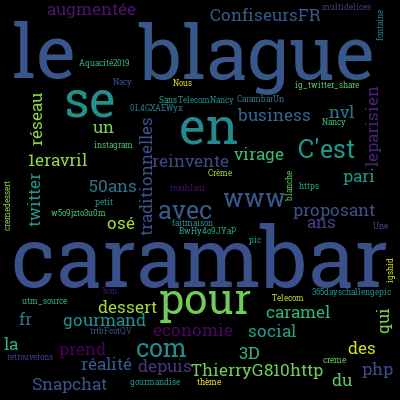
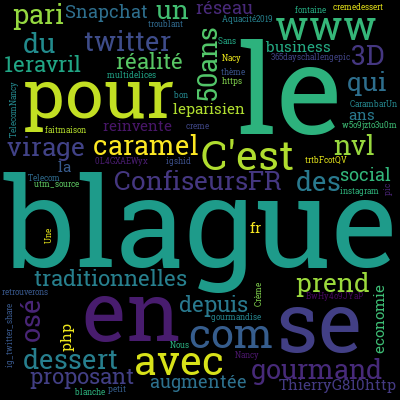
V1

diff --git a/ui_mainwindow.py b/ui_mainwindow.py
@@ -2,11 +2,12 @@
 
 # Form implementation generated from reading ui file 'MainWindow.ui'
 #
-# Created by: PyQt5 UI code generator 5.9.2
+# Created by: PyQt5 UI code generator 5.12.1
 #
 # WARNING! All changes made in this file will be lost!
 
 from PyQt5 import QtCore, QtGui, QtWidgets
+
 
 class Ui_MainWindow(object):
     def setupUi(self, MainWindow):
@@ -28,13 +29,39 @@ class Ui_MainWindow(object):
         self.textEdit.setMaximumSize(QtCore.QSize(16777215, 16777215))
         self.textEdit.setObjectName("textEdit")
         self.verticalLayout_4.addWidget(self.textEdit)
+        self.horizontalLayout_3 = QtWidgets.QHBoxLayout()
+        self.horizontalLayout_3.setObjectName("horizontalLayout_3")
+        self.label_2 = QtWidgets.QLabel(self.centralwidget)
+        self.label_2.setAlignment(QtCore.Qt.AlignRight|QtCore.Qt.AlignTrailing|QtCore.Qt.AlignVCenter)
+        self.label_2.setObjectName("label_2")
+        self.horizontalLayout_3.addWidget(self.label_2)
+        self.wcheight = QtWidgets.QSpinBox(self.centralwidget)
+        self.wcheight.setMinimum(1)
+        self.wcheight.setMaximum(2048)
+        self.wcheight.setProperty("value", 400)
+        self.wcheight.setObjectName("wcheight")
+        self.horizontalLayout_3.addWidget(self.wcheight)
+        self.label_3 = QtWidgets.QLabel(self.centralwidget)
+        self.label_3.setAlignment(QtCore.Qt.AlignRight|QtCore.Qt.AlignTrailing|QtCore.Qt.AlignVCenter)
+        self.label_3.setObjectName("label_3")
+        self.horizontalLayout_3.addWidget(self.label_3)
+        self.wcwidth = QtWidgets.QSpinBox(self.centralwidget)
+        self.wcwidth.setMinimum(1)
+        self.wcwidth.setMaximum(2048)
+        self.wcwidth.setProperty("value", 400)
+        self.wcwidth.setObjectName("wcwidth")
+        self.horizontalLayout_3.addWidget(self.wcwidth)
+        self.wcupdate = QtWidgets.QPushButton(self.centralwidget)
+        self.wcupdate.setObjectName("wcupdate")
+        self.horizontalLayout_3.addWidget(self.wcupdate)
+        self.verticalLayout_4.addLayout(self.horizontalLayout_3)
+        spacerItem = QtWidgets.QSpacerItem(20, 40, QtWidgets.QSizePolicy.Minimum, QtWidgets.QSizePolicy.Expanding)
+        self.verticalLayout_4.addItem(spacerItem)
         self.line_2 = QtWidgets.QFrame(self.centralwidget)
         self.line_2.setFrameShape(QtWidgets.QFrame.HLine)
         self.line_2.setFrameShadow(QtWidgets.QFrame.Sunken)
         self.line_2.setObjectName("line_2")
         self.verticalLayout_4.addWidget(self.line_2)
-        spacerItem = QtWidgets.QSpacerItem(20, 40, QtWidgets.QSizePolicy.Minimum, QtWidgets.QSizePolicy.Expanding)
-        self.verticalLayout_4.addItem(spacerItem)
         self.horizontalLayout.addLayout(self.verticalLayout_4)
         self.line = QtWidgets.QFrame(self.centralwidget)
         self.line.setFrameShape(QtWidgets.QFrame.VLine)
@@ -44,10 +71,12 @@ class Ui_MainWindow(object):
         self.verticalLayout_5 = QtWidgets.QVBoxLayout()
         self.verticalLayout_5.setObjectName("verticalLayout_5")
         self.wcloud = QtWidgets.QLabel(self.centralwidget)
+        self.wcloud.setMinimumSize(QtCore.QSize(400, 0))
         self.wcloud.setScaledContents(True)
         self.wcloud.setObjectName("wcloud")
         self.verticalLayout_5.addWidget(self.wcloud)
         self.freq = QtWidgets.QLabel(self.centralwidget)
+        self.freq.setMinimumSize(QtCore.QSize(400, 0))
         self.freq.setScaledContents(True)
         self.freq.setObjectName("freq")
         self.verticalLayout_5.addWidget(self.freq)
@@ -99,6 +128,9 @@ class Ui_MainWindow(object):
         _translate = QtCore.QCoreApplication.translate
         MainWindow.setWindowTitle(_translate("MainWindow", "MainWindow"))
         self.label.setText(_translate("MainWindow", "Wordcloud Stopword"))
+        self.label_2.setText(_translate("MainWindow", "Height :"))
+        self.label_3.setText(_translate("MainWindow", "Width :"))
+        self.wcupdate.setText(_translate("MainWindow", "Réactualiser le nuage de mots"))
         self.wcloud.setText(_translate("MainWindow", "Wordcloud"))
         self.freq.setText(_translate("MainWindow", "Frequence"))
         self.menuFichier.setTitle(_translate("MainWindow", "Fichier"))
@@ -111,4 +143,5 @@ class Ui_MainWindow(object):
         self.actionQuitter.setText(_translate("MainWindow", "Quitter"))
         self.actionAide.setText(_translate("MainWindow", "Aide"))
         self.actionCr_ateur.setText(_translate("MainWindow", "Créateur"))
+
 

diff --git a/main.py b/main.py
@@ -23,6 +23,9 @@ class MainWindow(QMainWindow):
             self.saveFrequences)
         self.ui.actionQuitter.triggered.connect(self.close)
         self.ui.actionCr_ateur.triggered.connect(self.crea)
+        self.ui.actionAide.triggered.connect(self.help)
+
+        self.ui.wcupdate.clicked.connect(self.setWordCloud)
 
         self.resize(820, 540)
         self.setWindowTitle("TwittAnalysis")
@@ -38,9 +41,9 @@ class MainWindow(QMainWindow):
             self, 'Open file', '.', "HTML file (*.html)")
         fdialog.setVisible(False)
         if fname[0]:
-            print("load")
+            # print("load")
             HTMLtoCSV(fname[0])
-            print("load end")
+            # print("load end")
             self.updateGraph()
 
     def loadCSV(self, e):
@@ -52,7 +55,7 @@ class MainWindow(QMainWindow):
             fin = open(fname[0], 'r')
             fout = open("res.csv", 'w')
             for line in fin.readlines():
-                print(line)
+                # print(line)
                 fout.write(line)
             fout.close()
             self.updateGraph()
@@ -63,7 +66,7 @@ class MainWindow(QMainWindow):
         fin = open("res.csv", 'r')
         fout = open(name[0], 'w')
         for line in fin.readlines():
-            print(line)
+            # print(line)
             fout.write(line)
         fout.close()
         fin.close()
@@ -71,25 +74,42 @@ class MainWindow(QMainWindow):
     def saveWorkCloud(self, e):
         name = QFileDialog.getSaveFileName(
             self, 'Save File')
-        stopword = set()
-        for word in self.ui.textEdit.toPlainText().split(";"):
-            stopword.add(word)
-        WCLOUD(stopword, name[0])
+        nam = name[0]
+        if nam:
+            if not name[0].endswith(".png"):
+                nam += ".png"
+            stopword = set()
+            for word in self.ui.textEdit.toPlainText().split(";"):
+                stopword.add(word)
+            width = self.ui.wcwidth.value()
+            height = self.ui.wcheight.value()
+            WCLOUD(stopword, nam, w=width, h=height)
 
     def saveFrequences(self, e):
         name = QFileDialog.getSaveFileName(
             self, 'Save File')
-        FREQ(name[0])
+        nam = name[0]
+        if nam:
+            if not name[0].endswith(".png"):
+                nam += ".png"
+            FREQ(nam)
 
     def crea(self):
         QDesktopServices.openUrl(QUrl("https://github.com/jeanlapostolle/"))
+
+    def help(self):
+        QDesktopServices.openUrl(
+            QUrl("https://github.com/jeanlapostolle/TwittAnalysis"))
 
     def setWordCloud(self):
         stopword = set()
         for word in self.ui.textEdit.toPlainText().split(";"):
             stopword.add(word)
-        WCLOUD(stopword)
-        pixmap = QPixmap("wordcloud.png")
+        width = self.ui.wcwidth.value()
+        height = self.ui.wcheight.value()
+        WCLOUD(stopword, w=width, h=height)
+
+        pixmap = QPixmap("wordcloud.png", )
         self.ui.wcloud.setPixmap(pixmap)
         self.ui.wcloud.show()
         self.ui.wcloud.setScaledContents(True)

diff --git a/wcloud.py b/wcloud.py
@@ -2,7 +2,7 @@ import matplotlib.pyplot as plt
 from wordcloud import WordCloud, STOPWORDS
 
 
-def WCLOUD(stpwrd, imgfname="wordcloud.png"):
+def WCLOUD(stpwrd, imgfname="wordcloud.png", w=400, h=400):
 
     # Lecture des tweets
     file = open("res.csv", "r")
@@ -17,8 +17,8 @@ def WCLOUD(stpwrd, imgfname="wordcloud.png"):
     def generate_wordcloud(text):
         wordcloud = WordCloud(font_path='Roboto_Slab/RobotoSlab-Regular.ttf',  # la font utilisé
                               relative_scaling=1,
-                              width=400,  # taille de l'image finale, prédit la résolution des mots aussi
-                              height=400,
+                              width=w,  # taille de l'image finale, prédit la résolution des mots aussi
+                              height=h,
                               stopwords=g_stopwords).generate(text)
         plt.imsave(imgfname, wordcloud)
 

diff --git a/get.py b/get.py
@@ -7,12 +7,12 @@ def HTMLtoCSV(filein):
     csv = open("res.csv", "w")
 
     file_name = filein
-    with open(file_name) as html_file:
-        soup = BeautifulSoup(html_file)
+    with open(file_name, encoding="utf-8") as html_file:
+        soup = BeautifulSoup(html_file, features="html.parser")
 
     tweets = soup.findAll("div", {"class": "tweet"})
 
-    print("Nombre de tweets :", len(tweets) - 1)
+    # print("Nombre de tweets :", len(tweets) - 1)
     for tweet in tweets:
         at = tweet.find("span", {"class": "username"})
         if at != None:
@@ -28,4 +28,4 @@ def HTMLtoCSV(filein):
 
         csv.write("{},{},{},\n".format(name, time, info))
 
-    print("Nombre de tweets :", len(tweets) - 1)
+    # print("Nombre de tweets :", len(tweets) - 1)

diff --git a/README.md b/README.md
@@ -20,4 +20,4 @@ python3 main.py
 
 ## Exemple
 
-![exemple](example.gif)
+![exemple](ressource/example.gif)
